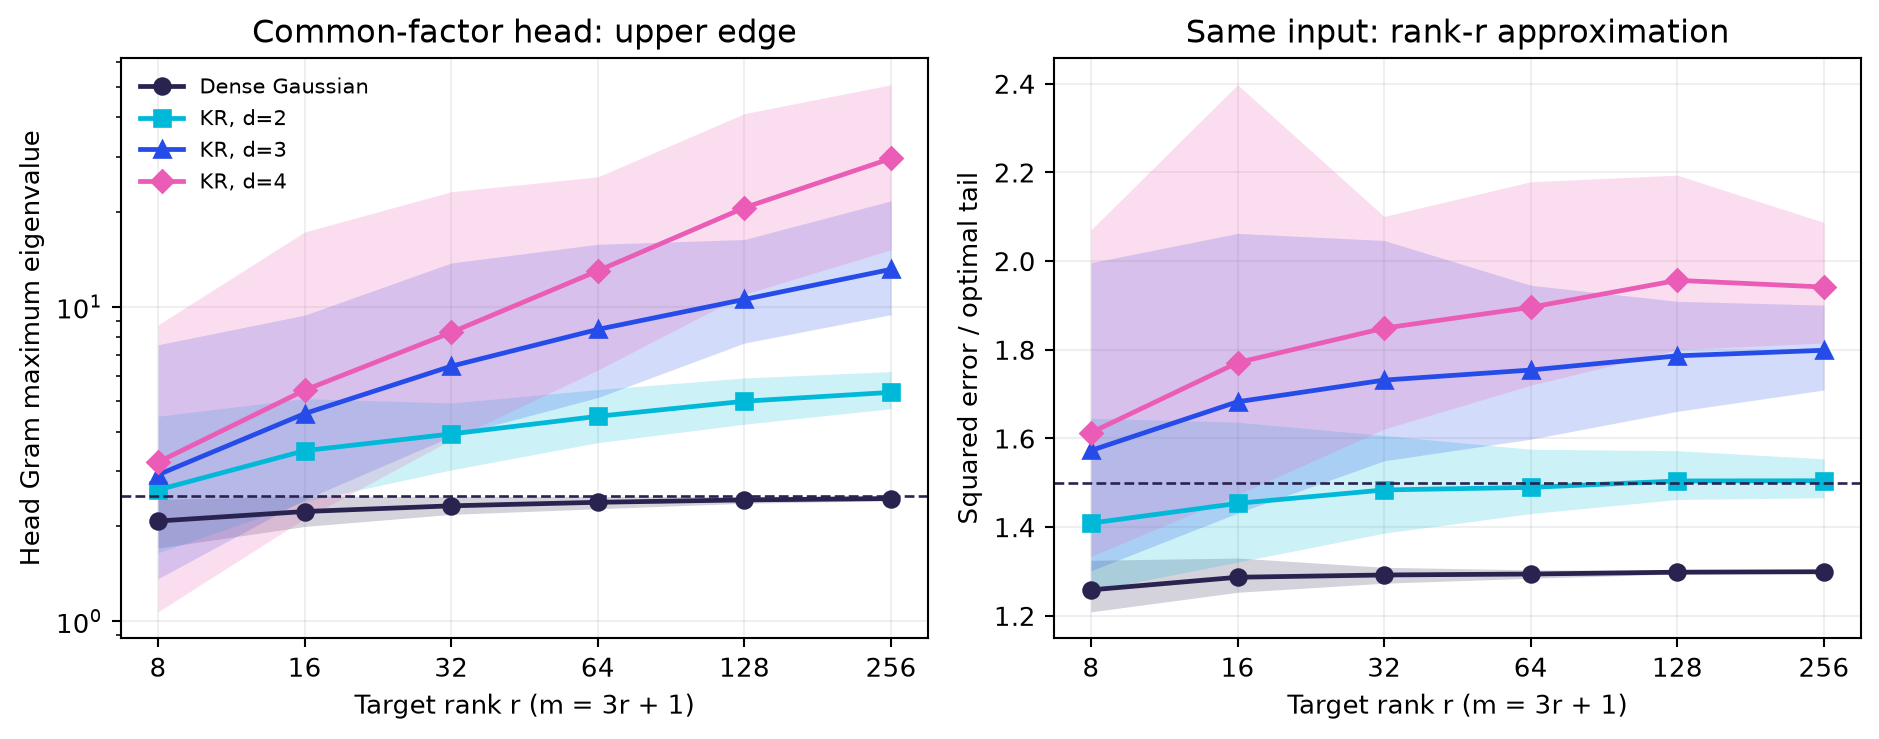
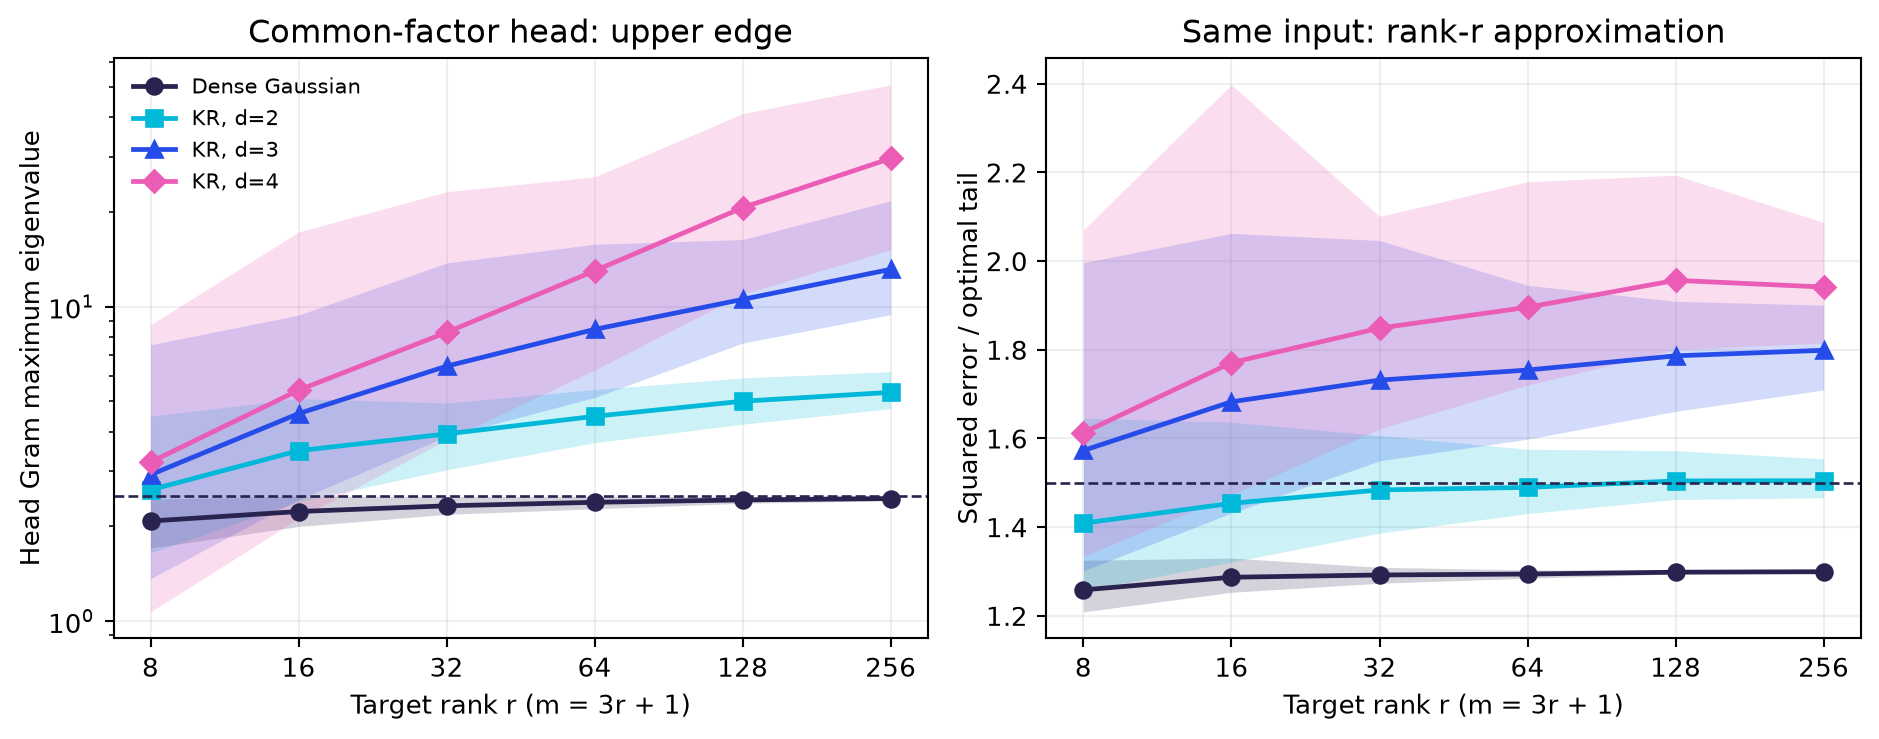
Adjust figure annotation and vertical axis-label spacing

diff --git a/head_tail/head_tail_experiment.py b/head_tail/head_tail_experiment.py
@@ -132,6 +132,7 @@ def plot(out,summary):
     axes[0].axhline((1+1/np.sqrt(3))**2,color=COLORS[0],ls='--',lw=1)
     axes[1].set(title='Same input: rank-r approximation',ylabel='Squared error / optimal tail')
     axes[1].axhline(1.5,color=COLORS[0],ls='--',lw=1)
+    for ax in axes: ax.yaxis.labelpad=1
     axes[0].legend(frameon=False,fontsize=8)
     fig.tight_layout(); fig.savefig(out/'head_tail.pdf',bbox_inches='tight'); fig.savefig(out/'head_tail.png',dpi=190,bbox_inches='tight'); plt.close(fig)
 
@@ -139,7 +140,7 @@ def inline(out,summary):
     colors={0:'htInk',2:'htBlue',3:'htRose',4:'htViolet'}
     marks={0:'*',2:'square*',3:'triangle*',4:'diamond*'}
     lines=[r'\begin{figure}[!t]',r'\centering\begingroup',r'\definecolor{htInk}{HTML}{29234F}',r'\definecolor{htBlue}{HTML}{00B9D8}',r'\definecolor{htRose}{HTML}{254BE8}',r'\definecolor{htViolet}{HTML}{EA5CB5}',r'\begin{tikzpicture}',
-           r'\begin{groupplot}[group style={group size=2 by 1,horizontal sep=1.65cm},width=.38\linewidth,height=4.4cm,scale only axis,xmode=log,log basis x=2,xtick={8,16,32,64,128,256},xticklabels={8,16,32,64,128,256},xlabel={Target rank $r$ ($m=3r+1$)},grid=major,grid style={gray!18},tick label style={font=\scriptsize},label style={font=\small},title style={font=\small\bfseries},legend style={font=\scriptsize,draw=gray!25},legend columns=4]']
+           r'\begin{groupplot}[group style={group size=2 by 1,horizontal sep=1.65cm},width=.38\linewidth,height=4.4cm,scale only axis,xmode=log,log basis x=2,xtick={8,16,32,64,128,256},xticklabels={8,16,32,64,128,256},xlabel={Target rank $r$ ($m=3r+1$)},grid=major,grid style={gray!18},tick label style={font=\scriptsize},label style={font=\small},ylabel style={xshift=6pt},title style={font=\small\bfseries},legend style={font=\scriptsize,draw=gray!25},legend columns=4]']
     for panel,key in enumerate(['lambda_max','rankr_ratio']):
         lines.append(r'\nextgroupplot[title={' + ('(a) Common-factor head' if panel==0 else '(b) Same input: approximation')+'},ylabel={'+(r'$\lambda_{\max}$ of head Gram' if panel==0 else r'$\|A-\widehat A_r\|_F^2/\tau_r(A)$')+'}'+(',ymode=log,legend to name=htLegend' if panel==0 else '')+']')
         for d in [0,2,3,4]:

diff --git a/head_tail/head_tail_inline.tex b/head_tail/head_tail_inline.tex
@@ -5,7 +5,7 @@
 \definecolor{htRose}{HTML}{254BE8}
 \definecolor{htViolet}{HTML}{EA5CB5}
 \begin{tikzpicture}
-\begin{groupplot}[group style={group size=2 by 1,horizontal sep=1.65cm},width=.38\linewidth,height=4.4cm,scale only axis,xmode=log,log basis x=2,xtick={8,16,32,64,128,256},xticklabels={8,16,32,64,128,256},xlabel={Target rank $r$ ($m=3r+1$)},grid=major,grid style={gray!18},tick label style={font=\scriptsize},label style={font=\small},title style={font=\small\bfseries},legend style={font=\scriptsize,draw=gray!25},legend columns=4]
+\begin{groupplot}[group style={group size=2 by 1,horizontal sep=1.65cm},width=.38\linewidth,height=4.4cm,scale only axis,xmode=log,log basis x=2,xtick={8,16,32,64,128,256},xticklabels={8,16,32,64,128,256},xlabel={Target rank $r$ ($m=3r+1$)},grid=major,grid style={gray!18},tick label style={font=\scriptsize},label style={font=\small},ylabel style={xshift=6pt},title style={font=\small\bfseries},legend style={font=\scriptsize,draw=gray!25},legend columns=4]
 \nextgroupplot[title={(a) Common-factor head},ylabel={$\lambda_{\max}$ of head Gram},ymode=log,legend to name=htLegend]
 \addplot[draw=none,forget plot,name path=h00q10] coordinates {(8,1.70465407) (16,1.996432723) (32,2.181580452) (64,2.273207431) (128,2.366278341) (256,2.411419688)};
 \addplot[draw=none,forget plot,name path=h00q90] coordinates {(8,2.437049268) (16,2.492556458) (32,2.486886325) (64,2.488029994) (128,2.487045426) (256,2.493805089)};

diff --git a/separation/build_inline.py b/separation/build_inline.py
@@ -59,7 +59,7 @@ parts.append(r'\nextgroupplot[title={(d) Rank-$r$ approximation},ylabel={$\|A-\w
 for d,name in ((0,'Gaussian / KR Gaussian'),(-1,'Rademacher common factor')):
     curve([z for z in a if int(z['kind'])==d],'rankr_ratio',d,f'a{abs(d)}',name)
 parts.append(r'\addplot[sepReference,dashed,forget plot] coordinates {(8,1.5)(512,1.5)};'+'\n')
-parts.append(r'\node[anchor=south west,font=\scriptsize,text=sepReference] at (axis cs:8.5,1.506) {Gaussian expectation bound: $1.5$};'+'\n')
+parts.append(r'\node[anchor=north west,font=\scriptsize,text=sepReference,inner sep=0pt] at (axis cs:8.5,1.528) {Gaussian expectation bound: $1.5$};'+'\n')
 parts.append(r'\node[anchor=south west,font=\scriptsize] at (rel axis cs:.02,.02) {$\tau_r(A)=1$; zero-output ratio $=r+1$};'+'\n')
 parts.append(r'''\end{groupplot}
 \node[anchor=south] at ([yshift=1.05cm]group c1r1.north east) {\pgfplotslegendfromname{sepLegend}};

diff --git a/separation/separation_inline.tex b/separation/separation_inline.tex
@@ -93,7 +93,7 @@ legend style={font=\scriptsize,draw=gray!25,fill=white},
 \addplot[color=sepOrange,thick,mark=square*,mark size=1.4pt] coordinates {(8,1.255094510840372) (16,1.277281285652315) (32,1.2877158767740349) (64,1.293873216430108) (128,1.2963720933547775) (256,1.2985717644462276) (512,1.2992526264292779)};
 \addlegendentry{Rademacher common factor}
 \addplot[sepReference,dashed,forget plot] coordinates {(8,1.5)(512,1.5)};
-\node[anchor=south west,font=\scriptsize,text=sepReference] at (axis cs:8.5,1.506) {Gaussian expectation bound: $1.5$};
+\node[anchor=north west,font=\scriptsize,text=sepReference,inner sep=0pt] at (axis cs:8.5,1.528) {Gaussian expectation bound: $1.5$};
 \node[anchor=south west,font=\scriptsize] at (rel axis cs:.02,.02) {$\tau_r(A)=1$; zero-output ratio $=r+1$};
 \end{groupplot}
 \node[anchor=south] at ([yshift=1.05cm]group c1r1.north east) {\pgfplotslegendfromname{sepLegend}};

diff --git a/separation/separation_experiment.py b/separation/separation_experiment.py
@@ -203,7 +203,7 @@ def plot(out):
     curve(axs[1,1],dense,'rankr_ratio',COLORS[0],'Gaussian / KR Gaussian','o')
     curve(axs[1,1],sign,'rankr_ratio','#FF925B','Rademacher common factor','s')
     axs[1,1].axhline(1.5,color='#7042DF',linestyle='--',linewidth=1.1)
-    axs[1,1].text(.03,.995,'Gaussian expectation bound: 1.5',transform=axs[1,1].transAxes,va='top',fontsize=8,color='#7042DF')
+    axs[1,1].text(.03,.97,'Gaussian expectation bound: 1.5',transform=axs[1,1].transAxes,va='top',fontsize=8,color='#7042DF')
     axs[1,1].text(.03,.07,r'$\tau_r(A)=1$; zero-output ratio $=r+1$',transform=axs[1,1].transAxes,fontsize=8)
     axs[1,1].set(title='(d) Rank-r approximation',ylabel=r'$\|A-\widehat A_r\|_F^2\,/\,\tau_r(A)$',ylim=(1.16,1.54),xlim=(7,570))
     axs[1,1].set_xticks(list(APPROX_COUNTS)); axs[1,1].set_xticklabels(list(APPROX_COUNTS))
